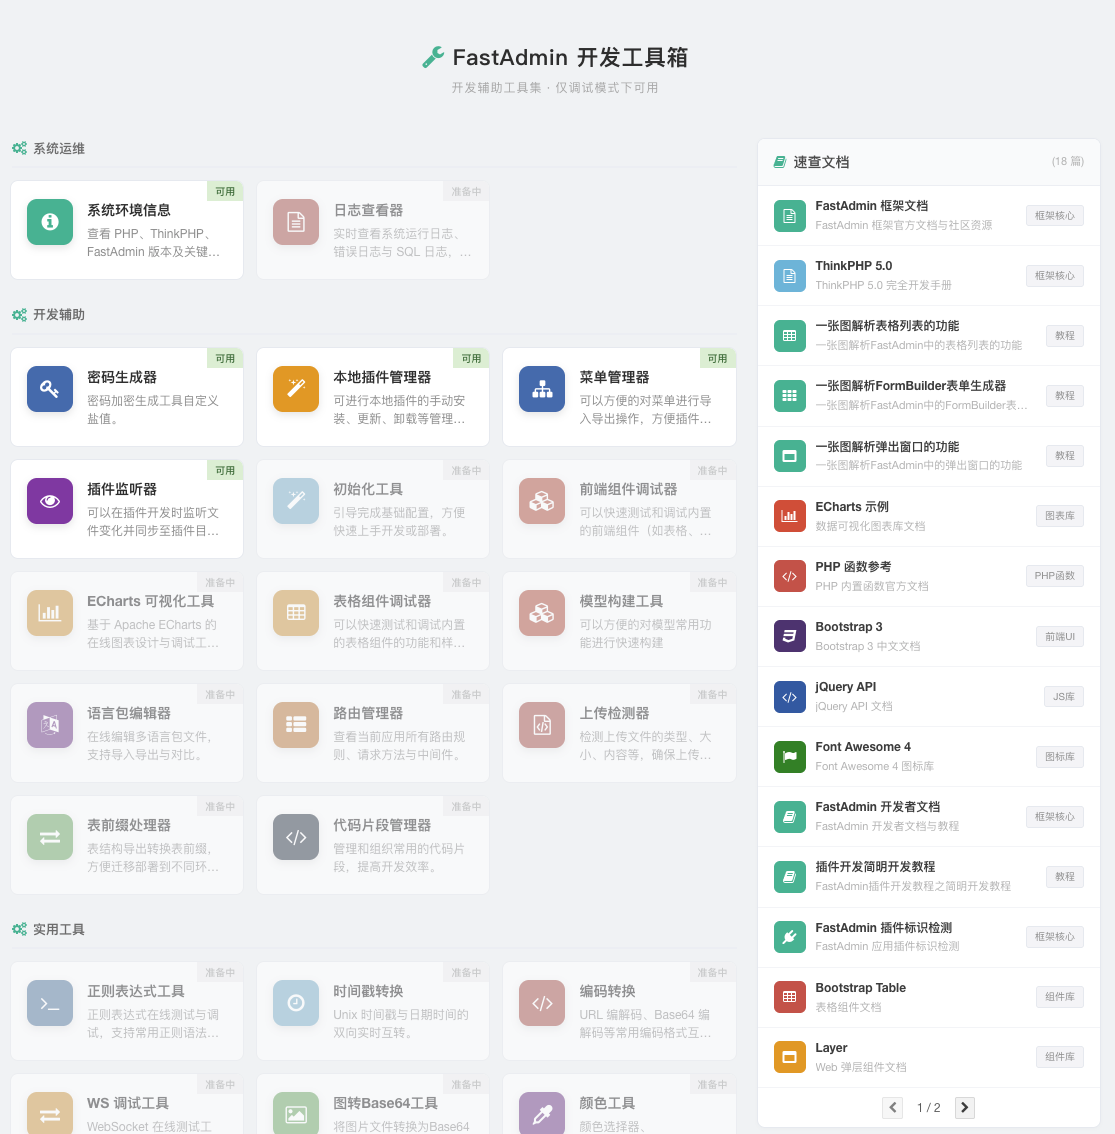
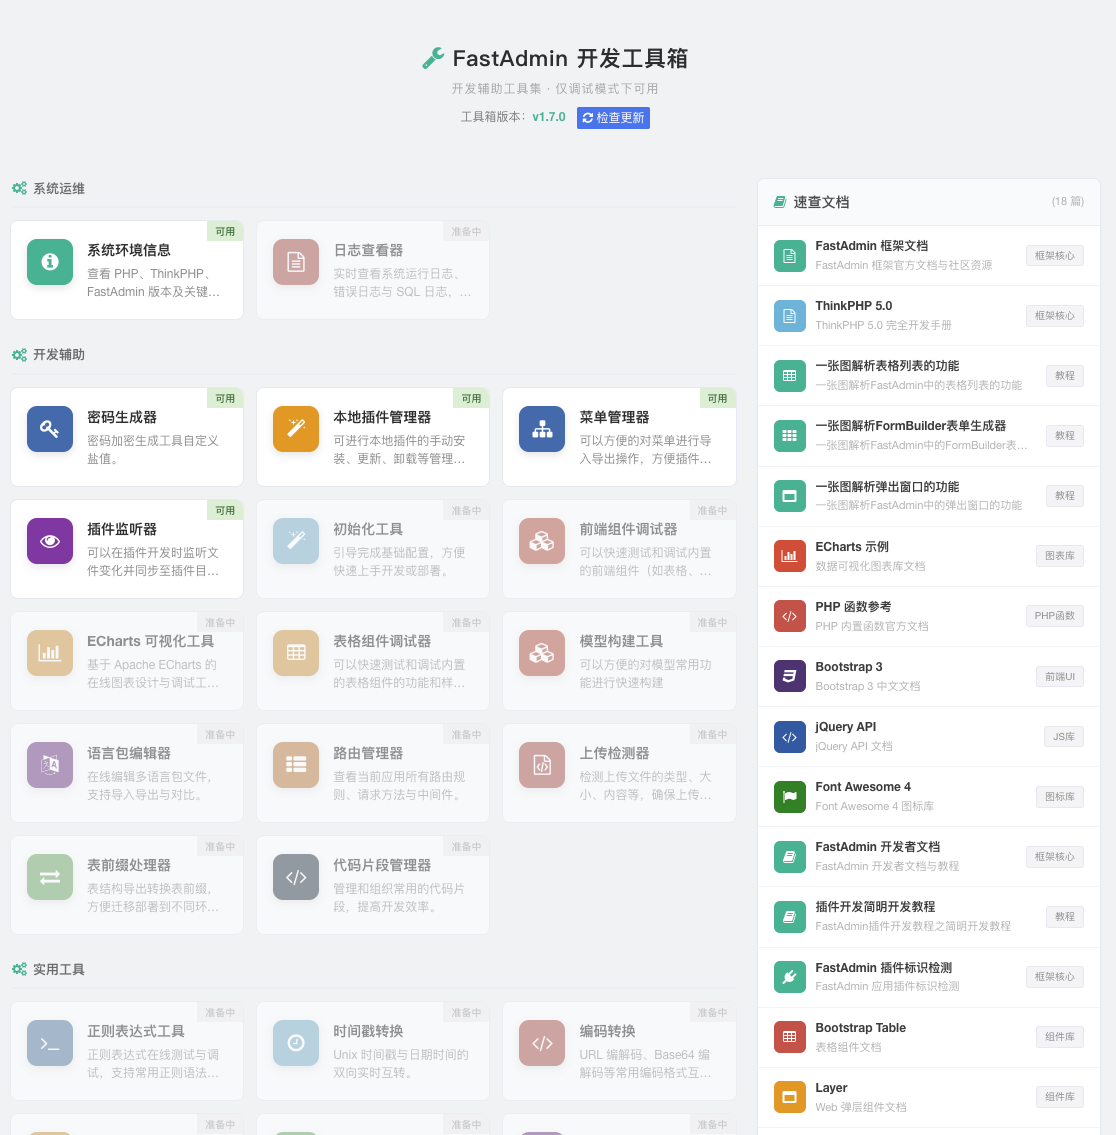
完善工具箱自动更新功能以及相关说明

diff --git a/Toolbox.php b/Toolbox.php
@@ -19,7 +19,7 @@ use think\Db;
  */
 class Toolbox extends Backend
 {
-    protected $version = '1.7.0';
+    protected $version = '1.8.0';
 
     protected $noNeedLogin = [];
     protected $noNeedRight = ['*'];
@@ -589,6 +589,8 @@ class Toolbox extends Backend
             'toolbox_docs' => $docs,
             'toolbox_doc_pagesize' => $pageSize,
             'toolbox_doc_totalpages' => $totalPages,
+            'toolbox_selfupdate_check_url' => url('checkToolboxUpdate'),
+            'toolbox_selfupdate_do_url'   => url('doToolboxUpdate'),
         ]);
 
         $docCards = '';
@@ -608,6 +610,8 @@ class Toolbox extends Backend
                 </a>
             CARD;
         }
+
+        $toolboxVersion = $this->version;
 
         $content = <<<HTML
             <style>
@@ -675,6 +679,12 @@ class Toolbox extends Backend
             <div class="tb-hero">
                 <h2><i class="fa fa-wrench" style="color:#18bc9c;"></i> FastAdmin 开发工具箱</h2>
                 <p class="tb-hero-sub">开发辅助工具集 · 仅调试模式下可用</p>
+                <p class="tb-hero-version" style="margin-top:8px;color:#888;font-size:12px;">
+                    工具箱版本：<strong style="color:#18bc9c;">v{$toolboxVersion}</strong>
+                    <a href="javascript:;" class="btn btn-xs btn-info btn-check-toolbox-update" style="margin-left:8px;">
+                        <i class="fa fa-refresh"></i> 检查更新
+                    </a>
+                </p>
             </div>
 
             <div class="tb-main-row">
@@ -745,6 +755,86 @@ class Toolbox extends Backend
                 });
 
                 renderPage(1);
+
+                /* ====== 工具箱自更新 ====== */
+                $(".btn-check-toolbox-update").on("click", function() {
+                    var $btn = $(this);
+                    $btn.prop("disabled", true).html("<i class=\"fa fa-spinner fa-spin\"></i> 检测中");
+
+                    $.ajax({
+                        url: Config.toolbox_selfupdate_check_url,
+                        type: "POST",
+                        dataType: "json",
+                        success: function(res) {
+                            $btn.prop("disabled", false).html("<i class=\"fa fa-refresh\"></i> 检查更新");
+                            if (res.code !== 1) {
+                                Layer.msg("检查失败: " + (res.msg || "未知错误"), {icon: 2});
+                                return;
+                            }
+                            if (!res.data || !res.data.has_update) {
+                                Layer.msg("当前已是最新版 v" + (res.data ? res.data.current_version : ""), {icon: 1});
+                                return;
+                            }
+                            var d = res.data;
+                            Layer.confirm(
+                                "<div style=\"padding:5px 0;\">" +
+                                "<p style=\"color:#d9534f;font-size:15px;\"><i class=\"fa fa-exclamation-triangle\"></i> <strong>⚠ 危险操作警告</strong></p>" +
+                                "<p>发现工具箱新版本：<strong style=\"color:#18bc9c;\">v" + d.latest_version + "</strong>（当前 v" + d.current_version + "）</p>" +
+                                "<div style=\"background:#fff3cd;border:1px solid #ffc107;border-radius:4px;padding:10px;margin:10px 0;font-size:12px;color:#856404;\">" +
+                                "<p style=\"margin:0 0 5px;\"><strong>此操作将：</strong></p>" +
+                                "<ul style=\"margin:0;padding-left:18px;\">" +
+                                "<li>下载远程 Toolbox.php 并<strong>覆盖当前控制器文件</strong></li>" +
+                                "<li>覆盖前会自动备份原文件至同目录</li>" +
+                                "<li>更新完成后需<strong>手动刷新页面</strong>生效</li>" +
+                                "</ul></div>" +
+                                "<p style=\"color:#d9534f;font-size:12px;margin:0;\">此操作不可撤销，确认继续？</p>" +
+                                "</div>",
+                                { icon: 0, title: "⚠ 工具箱自更新", btn: ["取消", "确认更新"] },
+                                function(index) {
+                                    Layer.close(index);
+                                    $btn.prop("disabled", false).html("<i class=\"fa fa-refresh\"></i> 检查更新");
+                                },
+                                function(index) {
+                                    Layer.close(index);
+                                    var idx = Layer.load(1, {shade: [0.3, "#000"]});
+                                    $btn.prop("disabled", true).html("<i class=\"fa fa-spinner fa-spin\"></i> 更新中");
+                                    $.ajax({
+                                        url: Config.toolbox_selfupdate_do_url,
+                                        type: "POST",
+                                        dataType: "json",
+                                        success: function(r) {
+                                            Layer.close(idx);
+                                            if (r.code === 1) {
+                                                Layer.confirm(
+                                                    "<div style=\"padding:10px 0;text-align:center;\">" +
+                                                    "<p style=\"color:#18bc9c;font-size:16px;\"><i class=\"fa fa-check-circle\"></i> 更新完成！</p>" +
+                                                    "<p style=\"color:#666;\">原文件已备份，请刷新页面使新版本生效。</p>" +
+                                                    (r.data && r.data.backup ? "<p style=\"color:#999;font-size:11px;\">备份文件: " + r.data.backup + "</p>" : "") +
+                                                    "</div>",
+                                                    { icon: 1, title: "更新成功", btn: ["稍后刷新", "立即刷新"] },
+                                                    function() {},
+                                                    function() { location.reload(true); }
+                                                );
+                                            } else {
+                                                Layer.alert(r.msg || "更新失败", {icon: 2});
+                                            }
+                                            $btn.prop("disabled", false).html("<i class=\"fa fa-refresh\"></i> 检查更新");
+                                        },
+                                        error: function() {
+                                            Layer.close(idx);
+                                            Layer.alert("网络请求失败", {icon: 2});
+                                            $btn.prop("disabled", false).html("<i class=\"fa fa-refresh\"></i> 检查更新");
+                                        }
+                                    });
+                                }
+                            );
+                        },
+                        error: function() {
+                            $btn.prop("disabled", false).html("<i class=\"fa fa-refresh\"></i> 检查更新");
+                            Layer.msg("网络请求失败", {icon: 2});
+                        }
+                    });
+                });
 
                 /* ====== Konami Code ====== */
                 var SEQUENCE = ["ArrowUp","ArrowUp","ArrowDown","ArrowDown","ArrowLeft","ArrowRight","ArrowLeft","ArrowRight","b","a"];
@@ -2547,6 +2637,95 @@ class Toolbox extends Backend
                 'new_versions'    => $newVersions,
             ]);
         }
+    }
+
+    /**
+     * 检查工具箱自身更新
+     *
+     * 从 Gitee 抓取远程 Toolbox.php 提取版本号，与本地 $this->version 对比
+     */
+    public function checkToolboxUpdate()
+    {
+        $this->request->filter(['strip_tags', 'trim']);
+        if (!$this->request->isAjax()) {
+            $this->error(__('请求无效'));
+        }
+
+        $remoteUrl = 'https://gitee.com/frank6com/fastadmin-toolbox/raw/master/Toolbox.php';
+        $remoteContent = $this->downloadFile($remoteUrl);
+        if ($remoteContent === false) {
+            $this->error('无法获取远程版本信息，请检查网络连接');
+        }
+
+        // 提取远程版本号
+        if (!preg_match('/protected\s+\$version\s*=\s*\'([\d.]+)\'/', $remoteContent, $match)) {
+            $this->error('无法解析远程版本号');
+        }
+
+        $latestVersion = $match[1];
+        $currentVersion = $this->version;
+
+        if (version_compare($latestVersion, $currentVersion, '>')) {
+            $this->success('发现新版本', null, [
+                'has_update'      => true,
+                'current_version' => $currentVersion,
+                'latest_version'  => $latestVersion,
+            ]);
+        } else {
+            $this->success('当前已是最新版', null, [
+                'has_update'      => false,
+                'current_version' => $currentVersion,
+                'latest_version'  => $latestVersion,
+            ]);
+        }
+    }
+
+    /**
+     * 执行工具箱自更新
+     *
+     * 下载远程 Toolbox.php，校验后覆盖当前控制器文件，覆盖前自动备份
+     */
+    public function doToolboxUpdate()
+    {
+        $this->request->filter(['strip_tags', 'trim']);
+        if (!$this->request->isAjax()) {
+            $this->error(__('请求无效'));
+        }
+
+        $remoteUrl = 'https://gitee.com/frank6com/fastadmin-toolbox/raw/master/Toolbox.php';
+        $newContent = $this->downloadFile($remoteUrl);
+        if ($newContent === false) {
+            $this->error('下载远程文件失败，请检查网络连接');
+        }
+
+        // 安全校验：远程内容必须包含合法的控制器类声明
+        if (strpos($newContent, 'class Toolbox extends Backend') === false) {
+            $this->error('远程文件校验失败：未找到合法的控制器类声明，拒绝覆盖');
+        }
+
+        // 检查当前文件是否可写
+        $currentFile = __FILE__;
+        if (!is_writable($currentFile)) {
+            $this->error('当前控制器文件不可写，请检查文件权限: ' . $currentFile);
+        }
+
+        // 备份原文件
+        $backupFile = $currentFile . '.bak.' . date('YmdHis');
+        if (!@copy($currentFile, $backupFile)) {
+            $this->error('备份原文件失败，操作中止');
+        }
+
+        // 写入新内容
+        $written = @file_put_contents($currentFile, $newContent);
+        if ($written === false) {
+            // 写入失败，尝试还原备份
+            @copy($backupFile, $currentFile);
+            $this->error('写入新文件失败，已还原原文件');
+        }
+
+        $this->success('工具箱更新成功', null, [
+            'backup' => basename($backupFile),
+        ]);
     }
 
     /**

diff --git a/README.md b/README.md
@@ -11,12 +11,13 @@
 | 功能模块 | 说明 |
 |---------|------|
 | **限制处于开发模式** | 工具箱仅在 FastAdmin 处于开发模式（`app_debug` 为 `true`）且管理员登录时可用，确保生产环境安全 |
-| **工具箱面板** | 统一界面展示所有工具功能与状态，支持自定义类名防止安全问题 |
+| **工具箱面板** | 统一界面展示所有工具功能与状态，支持自定义类名防止安全问题，增加自更新功能 |
 | **系统环境信息** | 展示 PHP 版本、已安装扩展、服务器配置等，支持官方版本更新对比检查 |
 | **速查手册** | 提供开发常用速查手册列表，快速定位使用方法与示例代码 |
 | **密码生成器** | 支持自定义字符串或随机生成管理员密码及密码盐 |
 | **本地插件管理器** | 显示本地插件列表，支持安装/卸载菜单、导入数据等二次开发操作 |
 | **菜单代码管理器** | 支持菜单配置与代码的双向导入导出，快速创建或备份菜单配置 |
+| **插件开发监听器安装器** | 检测并安装插件开发文件同步监视工具，安装后可通过命令行执行生产目录和插件目录的文件监听同步功能 |
 
 ## 使用说明
 
